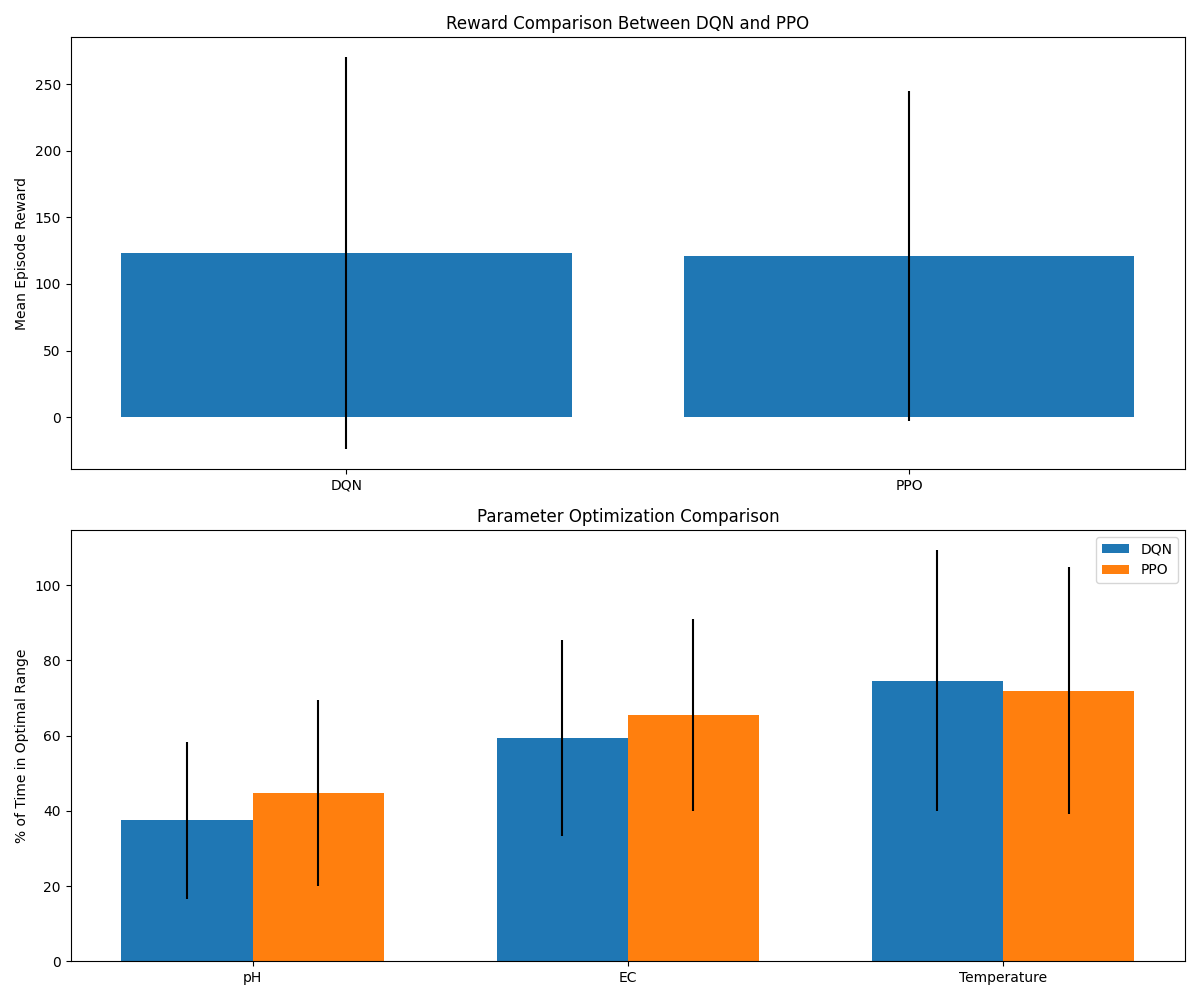
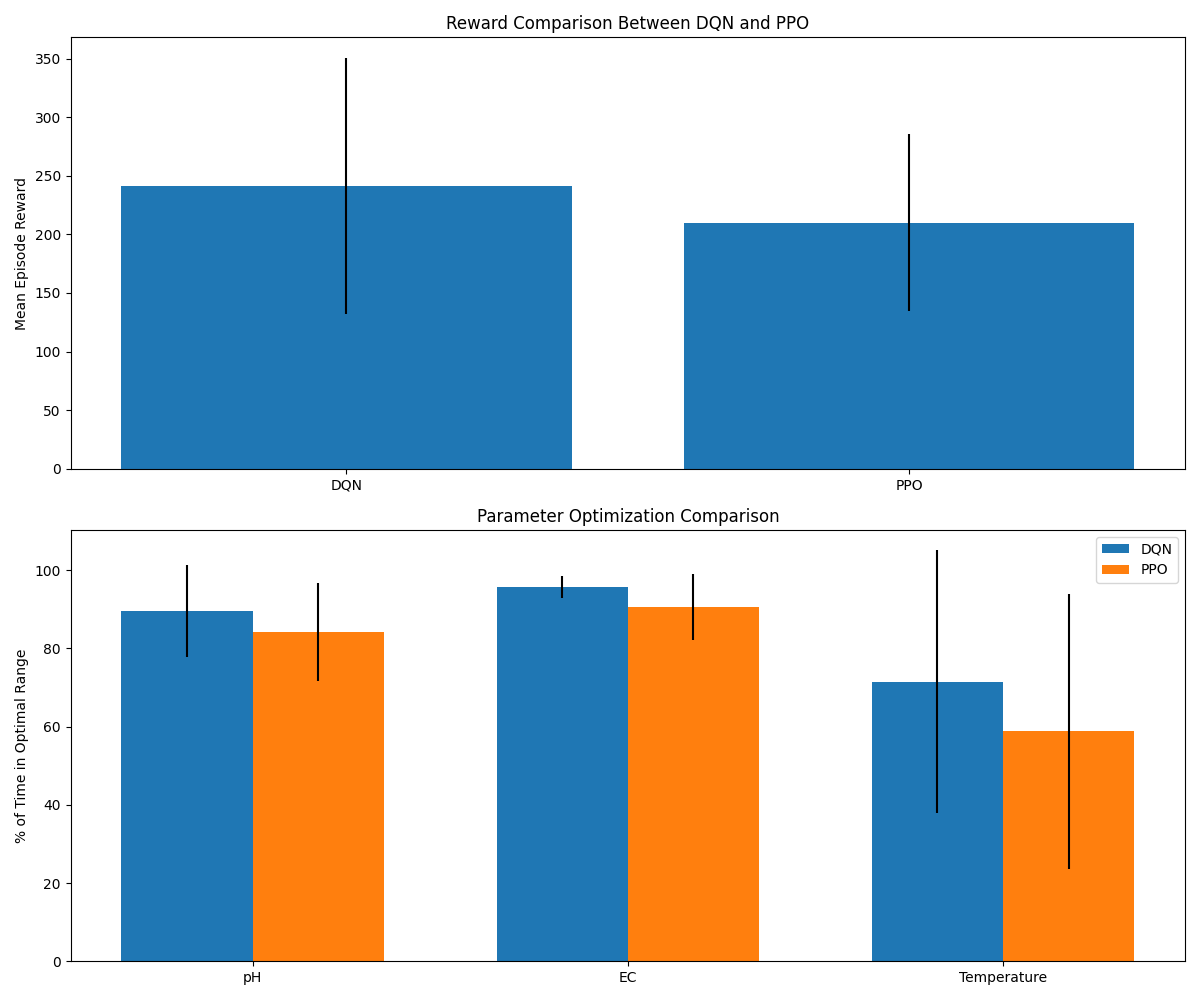
needed images

diff --git a/visualization_report.py b/visualization_report.py
@@ -9,7 +9,7 @@ from stable_baselines3.common.monitor import Monitor
 from environment.custom_env import HydroponicEnv
 from utils.helpers import evaluate_model
 
-def plot_cumulative_rewards(num_episodes=50):
+def plot_cumulative_rewards(num_episodes=5000):
     """
     Plot cumulative rewards over episodes for DQN and PPO models
     """
@@ -291,7 +291,7 @@ def generate_report_visualizations():
     os.makedirs('report_plots', exist_ok=True)
     
     print("Generating cumulative reward plots...")
-    plot_cumulative_rewards(num_episodes=50)
+    plot_cumulative_rewards(num_episodes=5000)
     
     print("\nGenerating training stability plots...")
     plot_training_stability()
